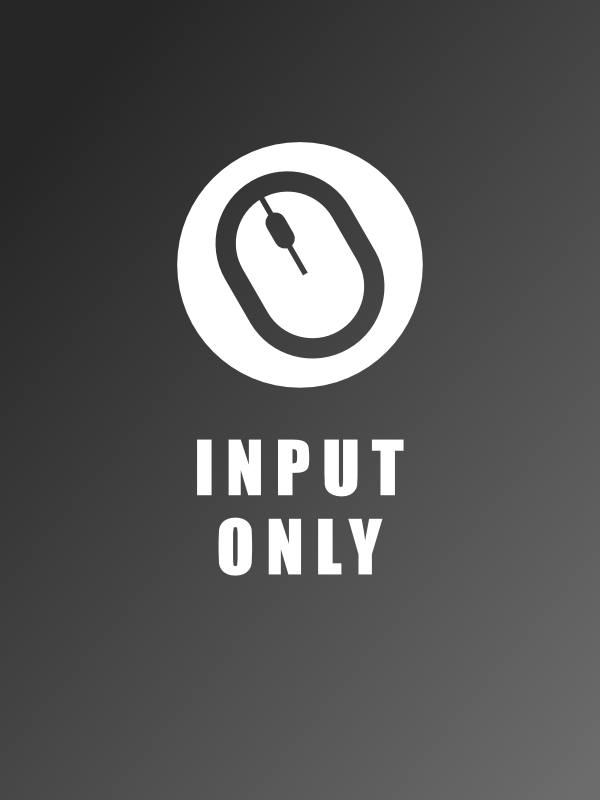
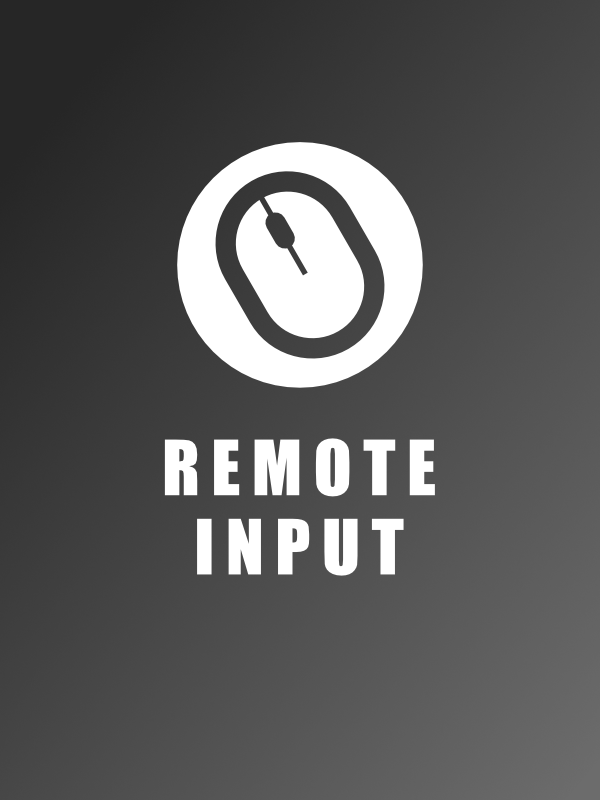
Rename Input Only to Remote Input

Changed region(s): [[0.27, 0.5312, 0.72, 0.7188]]

diff --git a/host/src/process.cpp b/host/src/process.cpp
@@ -49,7 +49,8 @@ namespace proc {
 
   proc_t proc;
 
-  std::string input_only_app_id;
+  int input_only_app_id = -1;
+  std::string input_only_app_id_str;
 
 #ifdef _WIN32
   VDISPLAY::DRIVER_STATUS vDisplayDriverStatus = VDISPLAY::DRIVER_STATUS::UNKNOWN;
@@ -162,8 +163,8 @@ namespace proc {
 
   void
   proc_t::launch_input_only() {
-    _app_id = util::from_view(input_only_app_id);
-    _app_name = "Input Only";
+    _app_id = input_only_app_id;
+    _app_name = "Remote Input";
     allow_client_commands = false;
     placebo = true;
 
@@ -174,7 +175,7 @@ namespace proc {
 
   int
   proc_t::execute(int app_id, const ctx_t& app, std::shared_ptr<rtsp_stream::launch_session_t> launch_session) {
-    if (_app_id == util::from_view(input_only_app_id)) {
+    if (_app_id == input_only_app_id) {
       terminate();
       std::this_thread::sleep_for(1s);
     } else {
@@ -933,7 +934,7 @@ namespace proc {
       if (config::input.enable_input_only_mode) {
         proc::ctx_t ctx;
         // ctx.uuid = ""; // We're not using uuid for this special entry
-        ctx.name = "Input Only";
+        ctx.name = "Remote Input";
         ctx.image_path = parse_env_val(this_env, "input_only.png");
         ctx.virtual_display = false;
         ctx.scale_factor = 100;
@@ -957,7 +958,8 @@ namespace proc {
         }
         ids.insert(ctx.id);
 
-        input_only_app_id = ctx.id;
+        input_only_app_id_str = ctx.id;
+        input_only_app_id = util::from_view(ctx.id);
 
         apps.emplace_back(std::move(ctx));
       }

diff --git a/host/src/nvhttp.cpp b/host/src/nvhttp.cpp
@@ -1053,7 +1053,7 @@ namespace nvhttp {
     auto named_cert_p = get_verified_cert(request);
     if (!!(named_cert_p->perm & PERM::_all_actions)) {
       auto current_appid = proc::proc.running();
-      auto input_only_id_int = util::from_view(proc::input_only_app_id);
+      auto input_only_id_int = proc::input_only_app_id;
       auto should_hide_inactive_apps = config::input.enable_input_only_mode && current_appid > 0 && current_appid != input_only_id_int;
       for (auto &app : proc::proc.get_apps()) {
         auto appid = util::from_view(app.id);
@@ -1108,7 +1108,7 @@ namespace nvhttp {
     auto appid_str = get_arg(args, "appid");
     auto appid = util::from_view(appid_str);
     auto current_appid = proc::proc.running();
-    bool is_input_only = config::input.enable_input_only_mode && appid_str == proc::input_only_app_id;
+    bool is_input_only = config::input.enable_input_only_mode && appid == proc::input_only_app_id;
 
     auto named_cert_p = get_verified_cert(request);
     auto perm = PERM::launch;
@@ -1140,7 +1140,7 @@ namespace nvhttp {
     }
 
     if (!is_input_only) {
-      if (current_appid > 0 && current_appid != util::from_view(proc::input_only_app_id) && appid != current_appid) {
+      if (current_appid > 0 && current_appid != proc::input_only_app_id && appid != current_appid) {
         tree.put("root.resume", 0);
         tree.put("root.<xmlattr>.status_code", 400);
         tree.put("root.<xmlattr>.status_message", "An app is already running on this host");

diff --git a/host/src/process.h b/host/src/process.h
@@ -182,5 +182,6 @@ namespace proc {
   terminate_process_group(boost::process::v1::child &proc, boost::process::v1::group &group, std::chrono::seconds exit_timeout);
 
   extern proc_t proc;
-  extern std::string input_only_app_id;
+  extern int input_only_app_id;
+  extern std::string input_only_app_id_str;
 }  // namespace proc
